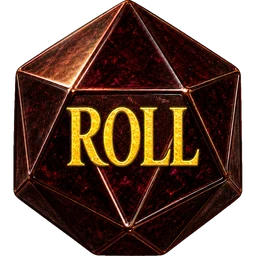
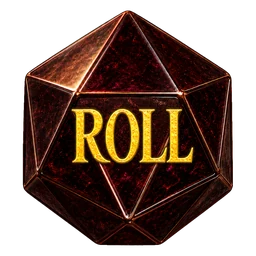
Round 8 polish: bigger ROLL with breathing room, dots pushed left
ROLL grows another 10% (50px -> 55px) and the artwork now carries a small
margin around the die instead of touching the crop edge exactly -- flush-
to-edge read as the bottom point being cut off once it was small on screen.
--cd-leadcol-w tightens to its true minimum so the vertical-dots menus sit
as far left as they can (still aligned with each other), clearing the
extra room the bigger ROLL needs without the console row overflowing.

diff --git a/docs/stylesheets/companion-dock.css b/docs/stylesheets/companion-dock.css
@@ -319,7 +319,7 @@ button.fh-cd-mstat.is-active{border-color:var(--cd-gold);background:var(--cd-par
    width instead: whichever group is narrower just leaves a little air before
    its ⋮, and both ⋮ land at the same x without a magic absolute offset that
    would drift the moment either group's content changed width. */
-:root{--cd-leadcol-w:calc(96px * var(--cd-fs))}
+:root{--cd-leadcol-w:calc(88px * var(--cd-fs))}
 .fh-cd-leadcol{display:flex;align-items:center;gap:5px;flex:none;min-width:var(--cd-leadcol-w)}
 /* The dice column: seven dice, their own width, nothing else -- the ⋮ no
    longer lives in here (it moved to .fh-cd-leadcol's far side), so gold and
@@ -527,7 +527,7 @@ button.fh-cd-mstat.is-active{border-color:var(--cd-gold);background:var(--cd-par
 .fh-cd-diewrap.is-tunable.is-pending:not(.is-flashing) .fh-cd-die{animation:fh-cd-call 1.15s ease-in-out infinite}
 
 /* ── The white picker: the one place dice come from ─────────────── */
-:root{--cd-rollbtn:50px}
+:root{--cd-rollbtn:55px}
 .fh-cd-whiterow{display:flex;align-items:center;gap:5px;width:calc(var(--cd-rollbtn) + 5px + var(--cd-dicecol));justify-content:flex-start;margin-left:auto}
 .fh-cd-wdie{position:relative;display:flex;flex-direction:column;align-items:center;gap:1px;width:31px;height:auto;padding:0;border:0;background:none;cursor:pointer;flex:none}
 .fh-cd-wdie svg{width:100%;height:100%;display:block}
